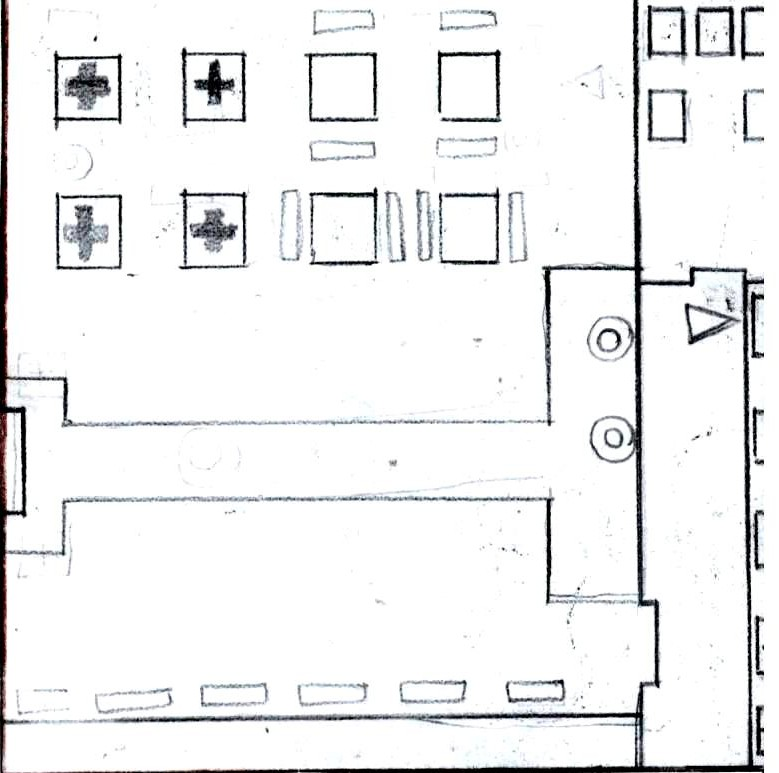
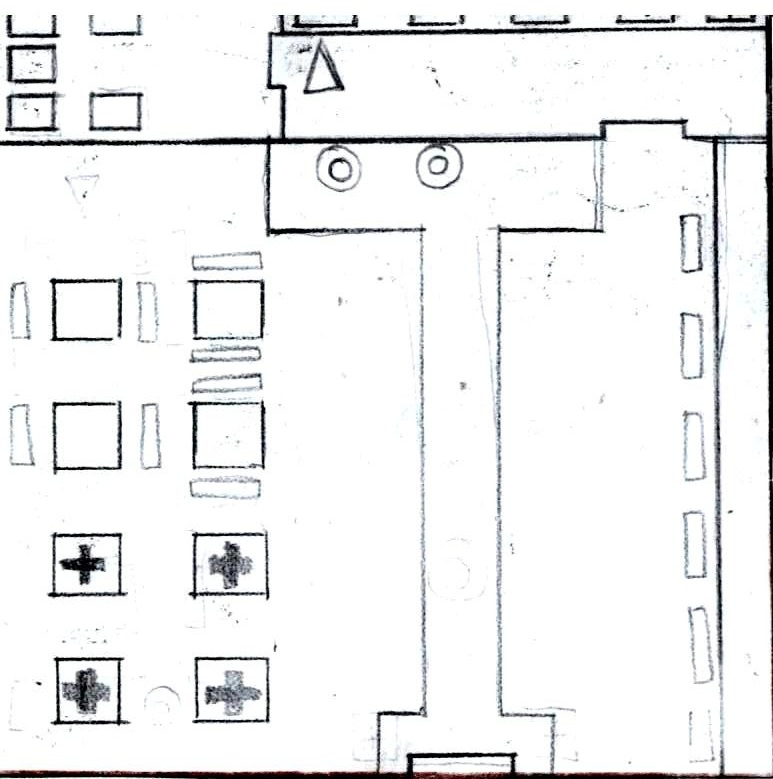
ya funcionan las imagenes

Changed region(s): [[0.0, 0.0, 1.0, 1.0], [0.2484, 0.6831, 0.3726, 0.7762], [0.7451, 0.0931, 0.7762, 0.1242]]

diff --git a/src/MainScene.js b/src/MainScene.js
@@ -9,24 +9,24 @@ export default class MainScene extends Phaser.Scene {
 
     preload() { // Cargar recursos aquí
         this.load.image("background2", "assets/gameAssets/background2.jpg");
-        this.load.image("cafeteria", "assets/gameAssets/Cafeteria.jpg")
-        this.load.image("building", "assets/gameAssets/Granja.jpg")
-        this.load.image("pedidos", "assets/gameAssets/Pedidos.jpg")
-        this.load.image("parcela", "assets/gameAssets/Parcela.png")
+        this.load.image("cafeteria", "assets/gameAssets/cafeteria.jpg")
+        this.load.image("building", "assets/gameAssets/farm.jpg")
+        this.load.image("pedidos", "assets/gameAssets/order.jpg")
+        this.load.image("parcela", "assets/gameAssets/tile.jpg")
     }
     
     create() { // Crear objetos del juego aquí
         this.add.image(400, 300, "background2").setOrigin(0.5, 0.5);
         this.createParcelas();
-        new Cafeteria(this, 0, 0, "cafeteria", 0, 0, 0, [], 0).setOrigin(0, 0);
-        new Building(this, 0, 0, "building", 0, 0, [], 0).setOrigin(0, 0);
+        new Cafeteria(this, 0, 0, "cafeteria", 0, 0, 0, [], 0).setOrigin(0, 0).setScale(0.1);
+        new Building(this, 0, 0, "building", 0, 0, [], 0).setOrigin(0, 0).setScale(0.1);
     }
 
     createParcelas(){ //Crea parcelas
 
          // Crear una cuadrícula de Parcelas (rectángulos ordenados)
-            const cols = 8;         // columnas
-            const rows = 6;         // filas
+            const cols = 3;         // columnas
+            const rows = 3;         // filas
             const margin = 10;      // espacio entre parcelas
             const tileWidth = 80;   // ancho de cada parcela
             const tileHeight = 60;  // alto de cada parcela
@@ -40,7 +40,7 @@ export default class MainScene extends Phaser.Scene {
                     const x = startX + col * (tileWidth + margin);
                     const y = startY + row * (tileHeight + margin);
 
-                    const parcel = new Parcel(this, x, y, "parcela", 0 , false).setOrigin(0, 0);
+                    const parcel = new Parcel(this, x, y, "parcela", 0 , false).setOrigin(0.5, 0.5).setScale(0.25, 0.25);
 
 
                     this.parcels.push(parcel);

diff --git a/src/Product.js b/src/Product.js
@@ -1,21 +1,23 @@
 export default class Product extends Phaser.GameObjects.Sprite{
-    constructor(scene, x, y, texture, description, processingTime) {
+    constructor(scene, x, y, texture, nombre, description, time) {
         super(scene, x, y, texture);
-        
-        this.description = description;
-        this.processingTime = processingTime;
-        this.upgradeTier = 1;
-       
-        function getName() {
-            return this.name;
-        }
 
-        function getDescription() {
-            return this.description;
-        }
-
-        function getTime() {
-            return this.processingTime;
-        }
+        this.nombre = tiempo;
+        this.descripcion = descripcion;
+        this.tiempo = tiermpo;
     }
+
+    getNombre() {
+        return this.nombre;
+    }
+
+    getDescription() {
+        return this.description;
+    }
+
+    getTiempo()
+    {
+        return this.time;
+    }
+
 }

diff --git a/src/Cafeteria.js b/src/Cafeteria.js
@@ -3,13 +3,14 @@
 //import {client} from "Client.js";
 
 export default class Cafeteria extends Phaser.GameObjects.Sprite{
-  constructor(scene, x, y, texture = "cafeteria", kitchen, cashier, inventory, clients = [], capacity) {
-        
-        super(scene, x , y, texture)
+  constructor(scene, x, y, texture = "cafeteria", kitchen, cashier, inventory, clients = [], capacity) {   
+      super(scene, x , y, texture)
 
-        this.kitchen;
-        this.cashier;
-        this.inventory;
+      scene.add.existing(this);
+
+        this.kitchen = kitchen;
+        this.cashier = cashier;
+        this.inventory = inventory;
         this.clients = clients;
         this.capacity = capacity;
 

diff --git a/src/Building.js b/src/Building.js
@@ -1,6 +1,9 @@
 export default class Building extends Phaser.GameObjects.Sprite{
-  constructor(scene, x, y, texture = "granja", name, description, resources = [], velocityRatio = 1.0, ) {
+  constructor(scene, x, y, texture = "building", name, description, resources = [], velocityRatio = 1.0, ) {
         super(scene, x, y, texture);
+
+        scene.add.existing(this);
+
         this.name = name;
         this.description = description;
         this.resources = resources; // Array de recursos

diff --git a/src/Parcel.js b/src/Parcel.js
@@ -2,6 +2,8 @@ export default class Parcel extends Phaser.GameObjects.Sprite{
   constructor(scene, x, y, texture = "parcela", currentBuilding, occupied) {
     super(scene, x, y, texture)
     
+    scene.add.existing(this);
+
     this.currentBuilding = currentBuilding;
     this.occupied = occupied;
     }
